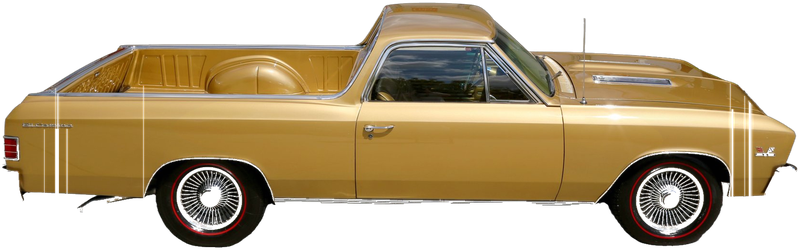
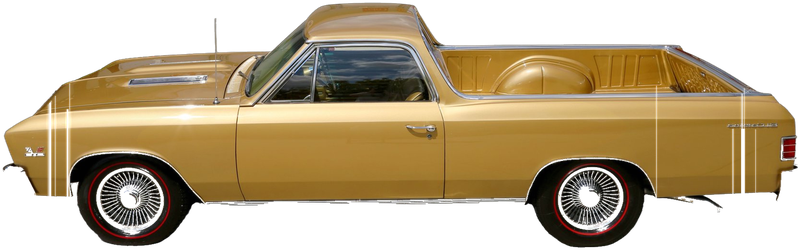
Bigger Zakk/Tayler (~1.72 scale) + flip El Camino to nose-left so drive facing is correct.

diff --git a/js/world.js b/js/world.js
@@ -172,11 +172,11 @@
   const SHED_WINDOW_W = 380;
   const SHED_WINDOW_Y = 32;
   const SHED_WINDOW_H = 168;
-  /** Default human sprite scale — taller vs shed interior (~1.48×). */
-  const CHAR_SCALE = 1.48;
+  /** Default human sprite scale — taller vs shed interior (~1.72×). */
+  const CHAR_SCALE = 1.72;
   /** Shared on-screen standing height (px, feet→crown). All standing humans match this. */
   const VECTOR_LOCAL_H = 73; // go avatar feet→head-top in local units
-  const STANDING_HEIGHT = Math.round(VECTOR_LOCAL_H * CHAR_SCALE); // ~108
+  const STANDING_HEIGHT = Math.round(VECTOR_LOCAL_H * CHAR_SCALE); // ~125
   const SEATED_HEIGHT = Math.round(52 * CHAR_SCALE); // seated ok shorter
   /** Slightly shrink shed furniture so characters dominate room height. */
   const PROP_SCALE = 0.88;
@@ -1731,7 +1731,7 @@
     img._failed = false;
     img.onload = function () { img._ready = !!(img.naturalWidth && img.naturalHeight); };
     img.onerror = function () { img._failed = true; img._ready = false; };
-    img.src = 'assets/posters/band-' + n + '.jpeg?v=15';
+    img.src = 'assets/posters/band-' + n + '.jpeg?v=16';
     return img;
   });
 
@@ -1896,7 +1896,7 @@
     img._failed = false;
     img.onload = function () { img._ready = !!(img.naturalWidth && img.naturalHeight); };
     img.onerror = function () { img._failed = true; img._ready = false; };
-    img.src = 'assets/elcamino-side.png?v=15';
+    img.src = 'assets/elcamino-side.png?v=16';
     return img;
   })();
 

diff --git a/index.html b/index.html
@@ -6,7 +6,7 @@
   <meta name="apple-mobile-web-app-capable" content="yes" />
   <title>Mothership — Retrofit</title>
   <link rel="stylesheet" href="css/style.css" />
-  <link rel="stylesheet" href="css/neon.css?v=15" />
+  <link rel="stylesheet" href="css/neon.css?v=16" />
 </head>
 <body>
   <div id="game-wrap">
@@ -117,11 +117,11 @@
   </div>
   <audio id="theme-audio" src="assets/mothership-theme.mp3" playsinline webkit-playsinline loop preload="auto"></audio>
   <script src="js/audio.js"></script>
-  <script src="js/world.js?v=15"></script>
-  <script src="js/photo-sprites.js?v=15"></script>
-  <script src="js/sossys.js?v=15"></script>
-  <script src="js/neon-look.js?v=15"></script>
-  <script src="js/game.js?v=15"></script>
-  <script src="js/song-cues.js?v=15"></script>
+  <script src="js/world.js?v=16"></script>
+  <script src="js/photo-sprites.js?v=16"></script>
+  <script src="js/sossys.js?v=16"></script>
+  <script src="js/neon-look.js?v=16"></script>
+  <script src="js/game.js?v=16"></script>
+  <script src="js/song-cues.js?v=16"></script>
 </body>
 </html>

diff --git a/js/photo-sprites.js b/js/photo-sprites.js
@@ -6,8 +6,8 @@
  */
 (function (global) {
   var PATHS = {
-    zakk: "assets/zakk-cutout.png?v=15",
-    tayler: "assets/tayler-cutout.png?v=15",
+    zakk: "assets/zakk-cutout.png?v=16",
+    tayler: "assets/tayler-cutout.png?v=16",
   };
   var IMGS = {};
   var LABELS = { zakk: "Zakk", tayler: "Tayler" };
@@ -36,7 +36,7 @@
     var W = global.MothershipWorld;
     if (opts && opts.scale != null) return opts.scale;
     if (W && W.CHAR_SCALE != null) return W.CHAR_SCALE;
-    return 1.48;
+    return 1.72;
   }
 
   /**
@@ -47,7 +47,7 @@
    */
   function targetHeight(opts, seated) {
     var W = global.MothershipWorld;
-    var defSc = W && W.CHAR_SCALE != null ? W.CHAR_SCALE : 1.48;
+    var defSc = W && W.CHAR_SCALE != null ? W.CHAR_SCALE : 1.72;
     var stand = W && W.STANDING_HEIGHT != null ? W.STANDING_HEIGHT : Math.round(73 * defSc);
     var seat = W && W.SEATED_HEIGHT != null ? W.SEATED_HEIGHT : Math.round(52 * defSc);
     var cropSeat = !!(opts && opts.seatedCrop);

diff --git a/js/game.js b/js/game.js
@@ -983,8 +983,8 @@
   }
 
   function makeAvatar(x, y) {
-    // Hitbox sized for CHAR_SCALE ~1.48 sprites
-    return { x, y, vx: 0, vy: 0, facing: 1, onGround: true, w: 28, h: 70 };
+    // Hitbox sized for CHAR_SCALE ~1.72 sprites
+    return { x, y, vx: 0, vy: 0, facing: 1, onGround: true, w: 32, h: 82 };
   }
 
   function gestureUnlock() {
